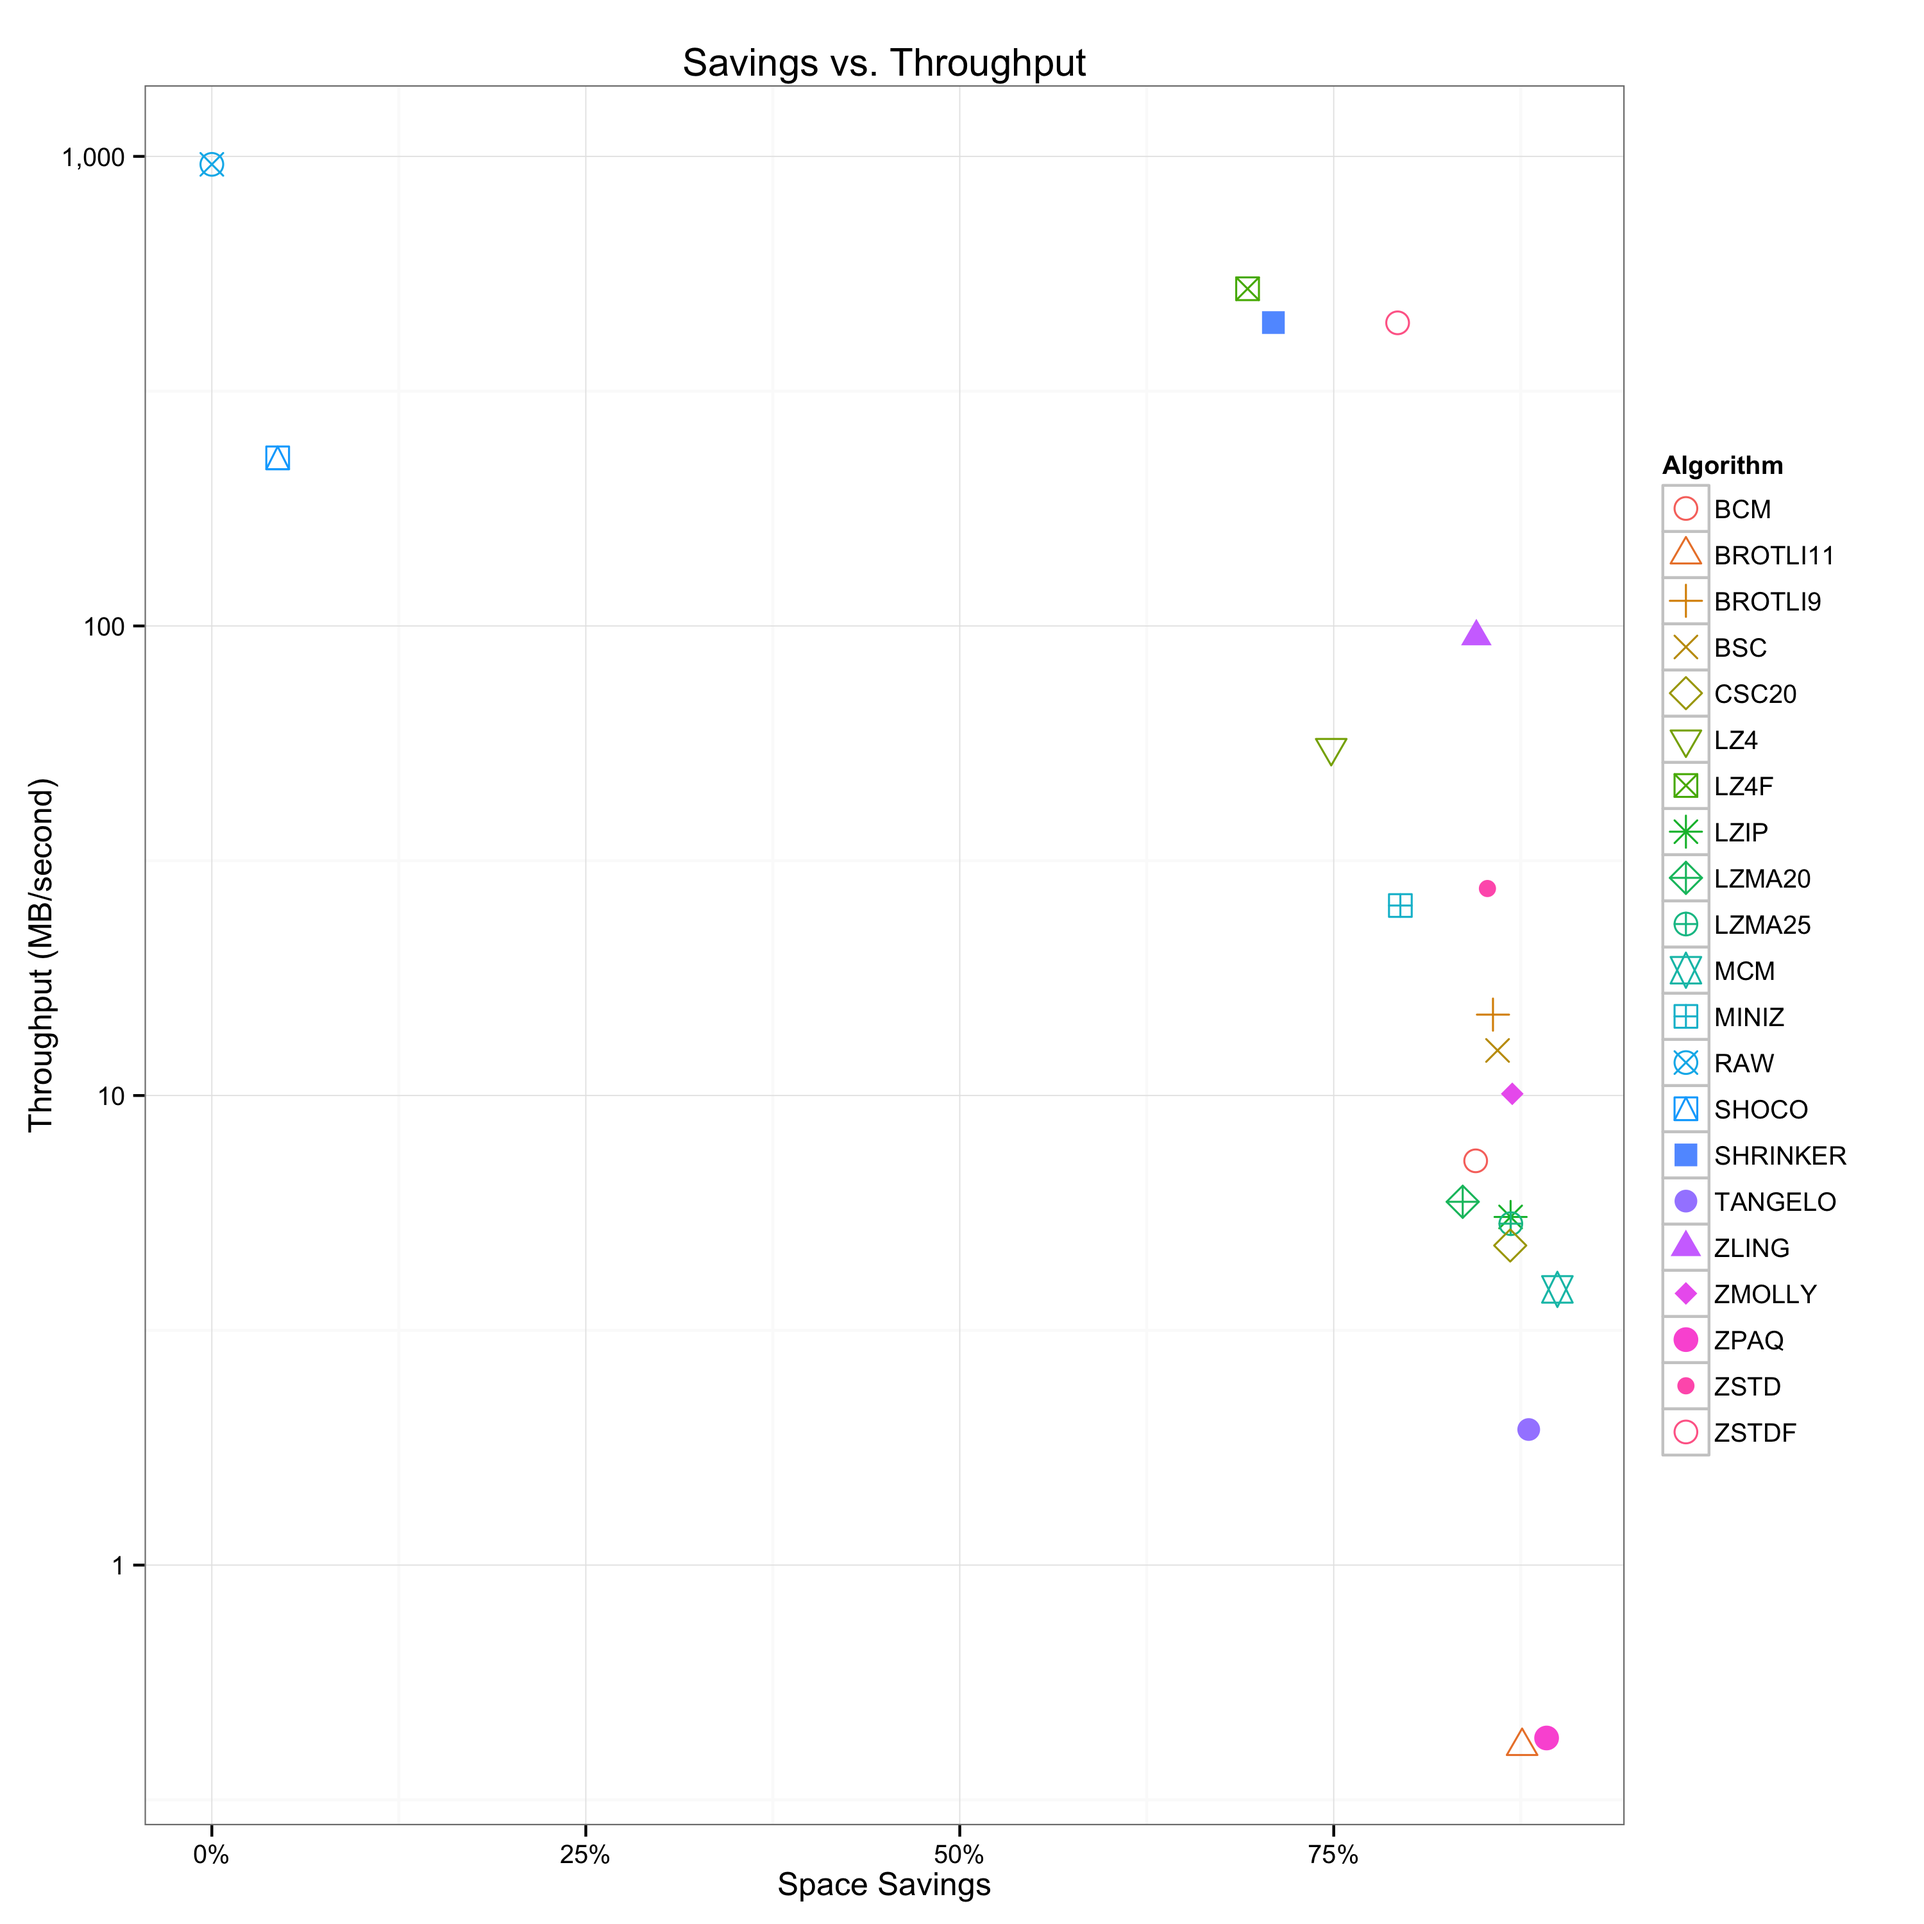
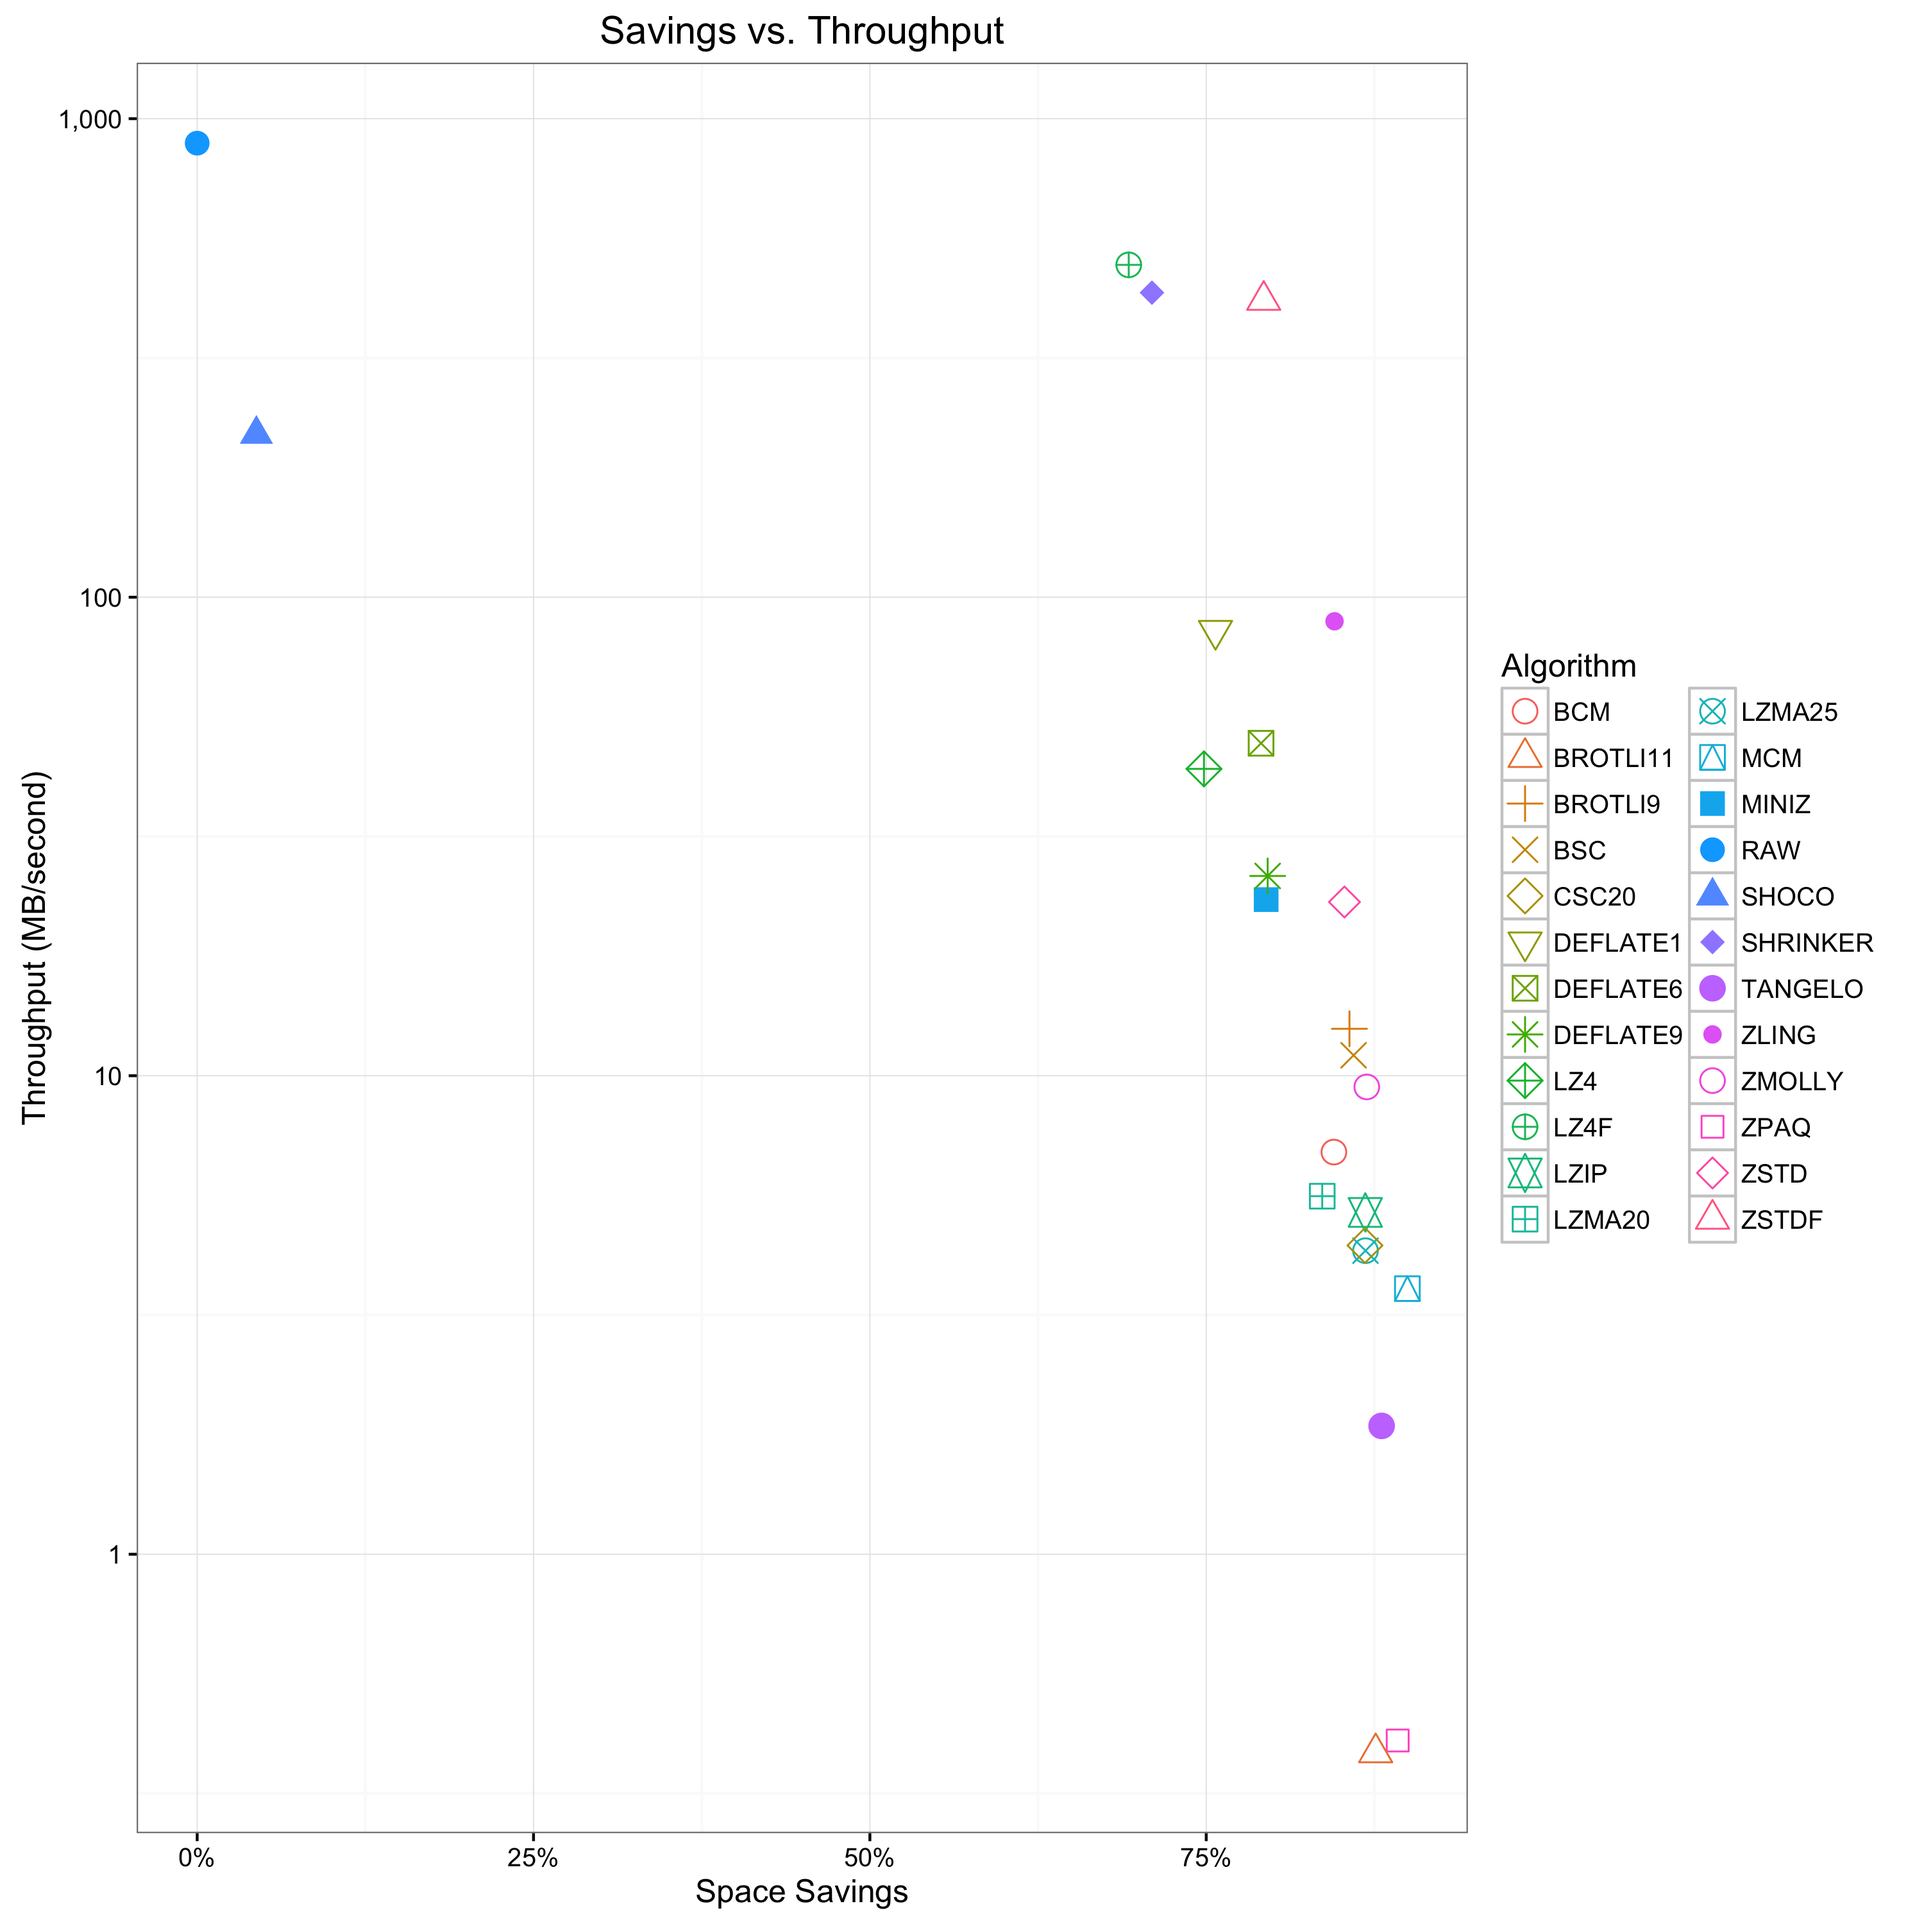
Add DEFLATE algorithm via zlib

diff --git a/benchmark.cpp b/benchmark.cpp
@@ -27,6 +27,8 @@
 // ARISING IN ANY WAY OUT OF THE USE OF THIS SOFTWARE, EVEN IF ADVISED OF THE
 // POSSIBILITY OF SUCH DAMAGE.
 
+#include <zlib.h>
+
 #include <chrono>
 #include <iterator>
 #include <iostream>
@@ -40,6 +42,11 @@
 #include "bundle/bundle.hpp"
 
 using namespace bundle;
+auto now = std::chrono::high_resolution_clock::now;
+
+auto to_mus = [](std::chrono::high_resolution_clock::duration d) {
+  return std::chrono::duration_cast<std::chrono::microseconds>(d).count();
+};
 
 auto main() -> int {
   // Force binary std::cin on a few platforms.
@@ -54,17 +61,14 @@ auto main() -> int {
     LZ4, BROTLI9, ZSTD, LZMA25, BSC, BROTLI11, SHRINKER,
     CSC20, ZSTDF, BCM, ZLING, MCM, TANGELO, ZMOLLY
   };
-  auto to_mus = [](std::chrono::high_resolution_clock::duration d) {
-    return std::chrono::duration_cast<std::chrono::microseconds>(d).count();
-  };
   std::cout << "Algorithm\tRaw\tPacked\tUnpacked\tCompression\tDecompression\n";
   for (auto& use : libs) {
-    auto pack_start = std::chrono::high_resolution_clock::now();
+    auto pack_start = now();
     auto packed = pack(use, buffer);
-    auto pack_stop = std::chrono::high_resolution_clock::now();
-    auto unpack_start = std::chrono::high_resolution_clock::now();
+    auto pack_stop = now();
+    auto unpack_start = now();
     auto unpacked = unpack(packed);
-    auto unpack_stop = std::chrono::high_resolution_clock::now();
+    auto unpack_stop = now();
     // Since some implementations can fail (SHOCO on binary input), we only
     // report successful runs.
     if (buffer == unpacked)
@@ -74,5 +78,38 @@ auto main() -> int {
                 << unpacked.size() << '\t'
                 << to_mus(pack_stop - pack_start) << '\t'
                 << to_mus(unpack_stop - unpack_start) << std::endl;
+  }
+  // DEFLATE
+  for (auto level : {1, 6, 9}) {
+    auto pack_start = now();
+    std::string packed;
+    packed.resize(compressBound(buffer.size()));
+    uLongf packed_size = packed.size();
+    auto result = compress2(
+      reinterpret_cast<Bytef*>(&packed[0]), &packed_size,
+      reinterpret_cast<Bytef const*>(buffer.data()), buffer.size(), level);
+    auto pack_stop = now();
+    if (result != Z_OK) {
+      std::cerr << "zlib compress2() failed (" << result << ')' << std::endl;
+      return 1;
+    }
+    auto unpack_start = now();
+    std::string unpacked;
+    unpacked.resize(buffer.size());
+    uLongf unpacked_size = unpacked.size();
+    result = uncompress(
+      reinterpret_cast<Bytef*>(&unpacked[0]), &unpacked_size,
+      reinterpret_cast<Bytef const*>(packed.data()), packed_size);
+    auto unpack_stop = now();
+    if (result != Z_OK) {
+      std::cerr << "zlib uncompress() failed (" << result << ')' << std::endl;
+      return 1;
+    }
+    std::cout << "DEFLATE" << level << '\t'
+              << buffer.size() << '\t'
+              << packed_size << '\t'
+              << unpacked_size << '\t'
+              << to_mus(pack_stop - pack_start) << '\t'
+              << to_mus(unpack_stop - unpack_start) << std::endl;
   }
 }
